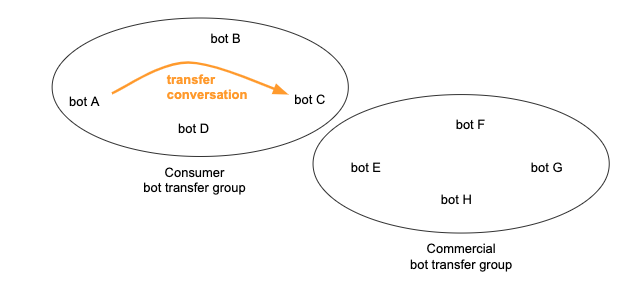
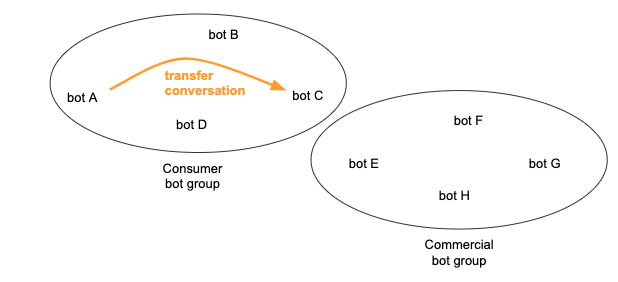
BA-4091 Bot Tango updates

diff --git a/pages/documents/ConversationalAI/ConversationBuilder/Bots/MultiBotCollaboration.md b/pages/documents/ConversationalAI/ConversationBuilder/Bots/MultiBotCollaboration.md
@@ -35,7 +35,7 @@ Importantly, both approaches allow for the transfer of the user's intent and/or 
 
 #### What's an automatic transfer?
 
-Automatic transfers use "bot transfer groups" to support the discovery of bots that are qualified to handle requests and accept transfers. You create the groups and assign bots to them. A bot can be a member of a single group. As a member, whenever the bot receives a request that it can't handle itself, it automatically checks *within its group* for a bot that can. If the bot discovers a capable bot, transfer of the conversation happens automatically.
+Automatic transfers use "bot groups" to support the discovery of bots that are qualified to handle requests and accept transfers. You create the groups and assign bots to them. A bot can be a member of a single group. As a member, whenever the bot receives a request that it can't handle itself, it automatically checks *within its group* for a bot that can. If the bot discovers a capable bot, transfer of the conversation happens automatically.
 
 <img style="width:650px" src="img/ConvoBuilder/bots_collab5.png">
 
@@ -49,45 +49,45 @@ If there isn't another bot within the group that can handle the request, no auto
 
 #### Why use automatic transfers?
 
-Automatic transfers are designed to simplify your automation model and make it more robust. Because all bots within a bot transfer group can talk to one another--automatically transferring requests when needed and possible--you don't need a "router" bot for routing user interactions between bots. With automatic transfers, the discovery and actual transfer both happen automatically and seamlessly within a bot transfer group whenever needed.
+Automatic transfers are designed to simplify your automation model and make it more robust. Because all bots within a bot group can talk to one another--automatically transferring requests when needed and possible--you don't need a "router" bot for routing user interactions between bots. With automatic transfers, the discovery and actual transfer both happen automatically and seamlessly within a bot group whenever needed.
 
 There are still some times when you'll need to use a manual transfer instead:
 
-* You want to transfer the conversation from a bot in one bot transfer group to a bot in a *different* bot transfer group.
+* You want to transfer the conversation from a bot in one bot group to a bot in a *different* bot group.
 * You want to transfer the conversation from a bot to a live agent.
 
-#### Create a bot transfer group
+#### Create a bot group
 
-Automatic transfers rely on bot transfer groups to determine which bots can talk to one another and transfer conversations automatically. When you [create a custom bot](conversation-builder-bots-custom-bots.html), you have the option of assigning a bot transfer group to it.
+Automatic transfers rely on bot groups to determine which bots can talk to one another and transfer conversations automatically. When you [create a custom bot](conversation-builder-bots-custom-bots.html), you have the option of assigning a bot group to it.
 
-**To create a bot transfer group**
-1. From the bots dashboard that lists your bots, click **Bot Transfer Groups** in the upper-right corner.
+**To create a bot group**
+1. From the bots dashboard that lists your bots, click **Bot Groups** in the upper-right corner.
 2. Click **New Group** in the lower-left corner.
 3. Specify the following:
 
-    * **Bot transfer group name**: Enter a group name that's concise and clear.
-    * **Status**: The default value is On (Active). This setting lets you disable automatic transfers on a group-by-group basis. Turn the slider on or off.
+    * **Bot group name**: Enter a group name that's concise and clear.
+    * **Collaboration**: The default value is On (Enabled). This setting lets you disable automatic transfers on a group-by-group basis. Turn the slider on or off, respectively, to enable or disable collaboration.
     * **Transfer message**: Enter the message to send to the consumer prior to the transfer, something like, "Hold on while I transfer you to a chatbot that can assist you..." You can use bot context variables in the message. You can also leave this field blank if desired.
     * **Bots**: Select each bot to add it to the group. A bot can be a member of only one group. You can select from the bots that are not yet assigned to a group.
 
 4. Click **Add**.
 
-#### Test a bot transfer group
+#### Test a bot group
 
-Once you've created a bot transfer group and assigned bots to the group, you can test how they will behave. Use the **Transfer group test** tool to feed to the group a single user message and see which bot would be selected to handle the request.
+Once you've created a bot group and assigned bots to the group, you can test the collaboration. Use the **Bot group test** tool to feed to the group a single user message and see which bot would be selected to handle the request.
 
-**To test a bot transfer group**
+**To test a bot group**
 
-1. From the bots dashboard that lists your bots, click **Bot Transfer Groups** in the upper-right corner.
+1. From the bots dashboard that lists your bots, click **Bot Groups** in the upper-right corner.
 2. In the left panel, select the group.
 3. In the lower-right corner, click <img style="width:25px" src="img/ConvoBuilder/bots_collab_debugIcon.png">.
 
     <img class="fancyimage" style="width:400px" src="img/ConvoBuilder/bots_collab7.png">
 
-4. In the **Transfer group test** tool, specify the following:
+4. In the **Bot group test** tool, specify the following:
 
     * **User text**: Enter the user message to use to search against the bots in the group.
-    * **Only search bots with live connector**: If you want to search against only bots with active agent connectors, select this. This option lets you simulate a runtime experience by excluding bots in the bot transfer group that aren't deployed yet.
+    * **Only search bots with live connector**: If you want to search against only bots with active agent connectors, select this. This option lets you simulate a runtime experience by excluding bots in the bot group that aren't deployed.
 
 5. Click **Test**.
 
@@ -95,24 +95,24 @@ Once you've created a bot transfer group and assigned bots to the group, you can
 
     If a bot is matched to the user text, the results indicate whether it was a pattern match or an intent match, and they identify the details: the strength of the match, the name of the bot, the name of the dialog, and the name of the interaction.
 
-#### Inactivate a bot transfer group
+#### Disable collaboration for a bot group
 
-To disable automatic transfers on a group-by-group basis, inactivate the bot transfer group.
+To disable automatic transfers on a group-by-group basis, disable collaboration for the bot group.
 
-**To inactivate a bot transfer group**
+**To disable collaboration for a bot group**
 
-1. From the bots dashboard that lists your bots, click **Bot Transfer Groups** in the upper-right corner.
+1. From the bots dashboard that lists your bots, click **Bot Groups** in the upper-right corner.
 2. In the left panel, select the group.
-3. In the right panel, click the **Status** slider to turn it off (Inactive).
-4. Click **Save**.
+3. In the right panel, click the **Collaboration** slider to turn it off (Disabled).
+4. Click **Update**.
 
-#### Delete a bot transfer group
+#### Delete a bot group
 
-**To delete a bot transfer group**
+**To delete a bot group**
 
-1. From the bots dashboard that lists your bots, click **Bot Transfer Groups** in the upper-right corner.
-2. In the left panel, click the icon and select **Delete**.
-3. confirm step.
+1. From the bots dashboard that lists your bots, click **Bot Groups** in the upper-right corner.
+2. In the left panel, move the mouse over the bot group name, and then click the <img style="width:25px" src="img/ConvoBuilder/icon_ellipsis_vertical.png"> icon that appears.
+3. Select **Delete**, and then click **Yes** to confirm the action.
 
 ### Manual transfers via escalations
 
@@ -124,7 +124,7 @@ A manual, bot-to-bot transfer is a [LivePerson agent escalation](conversation-bu
 
 You'll need to use a manual transfer in two situations:
 
-* You want to transfer the conversation from a bot in one bot transfer group to a bot in a *different* group.
+* You want to transfer the conversation from a bot in one bot group to a bot in a *different* group.
 * You want to transfer the conversation from a bot to a live agent.
 
 #### Making manual transfers seamless

diff --git a/pages/documents/ConversationalAI/ConversationBuilder/Bots/BotBasics.md b/pages/documents/ConversationalAI/ConversationBuilder/Bots/BotBasics.md
@@ -44,7 +44,7 @@ Bot settings include:
 
 - **Bot Template**: Read-only. To facilitate the rapid creation of bots, all bots are based on [templates](conversation-builder-templates-overview.html). The default template is Basic, which uses English and includes just a Welcome dialog. You select the template when you create the bot, and it can’t be changed afterward.
 
-- **Transfer Group**: Optionally select the bot transfer group for the bot. A bot can be a member of exactly one group. As a member, if it can't handle a received request, it automatically determines if another bot within its group can do so, and, if so, transfers the conversation. For more information on how bot transfer groups work, see [here](conversation-builder-bots-bot-to-bot-transfers.html).
+- **Bot Group**: Optionally select the bot group for the bot. A bot can be a member of exactly one group. As a member, if it can't handle a received request, it automatically determines if another bot within its group can do so, and, if so, transfers the conversation. For more information on how bot groups work, see [here](conversation-builder-bots-bot-to-bot-transfers.html).
 
 - **Enable Bot**: This Online/Offline setting is only displayed for [survey bots](conversation-builder-bots-survey-bots.html), not for custom bots. Use it to turn a survey bot on and off. When the bot is online, it responds to user messages. When it is offline, it doesn't. Taking a published survey bot offline can be useful if you need to temporarily remove it from your customer traffic flow. The default value is Online.
 

diff --git a/pages/documents/ConversationalAI/BotAccounts/user-roles-permissions.md b/pages/documents/ConversationalAI/BotAccounts/user-roles-permissions.md
@@ -47,7 +47,7 @@ Users with this permission do have the following limitations:
 This permission provides full privileges for creating bots and related resources. More specifically, users with this permission can create and manage:
 
 * Bots
-* Bot transfer groups
+* Bot groups
 * Integrations
 * Global functions
 * Credentials
